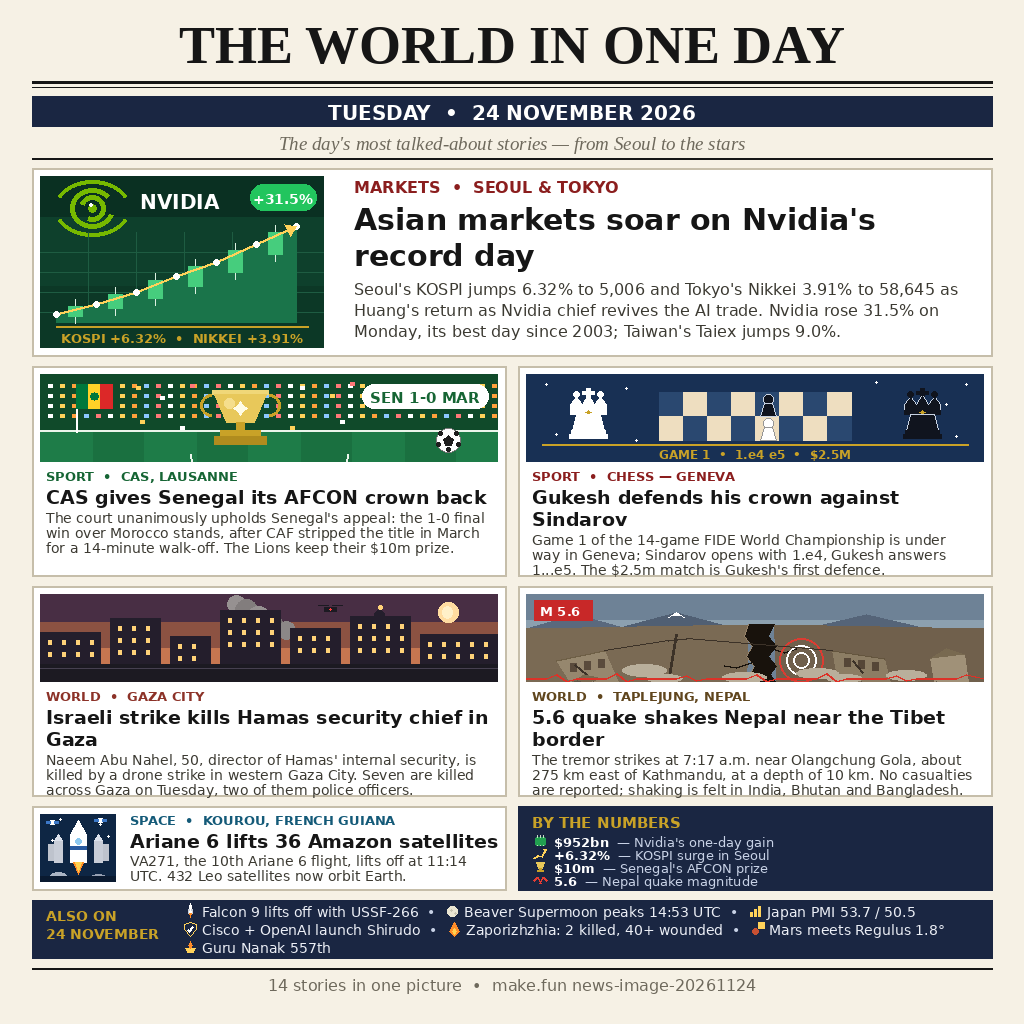
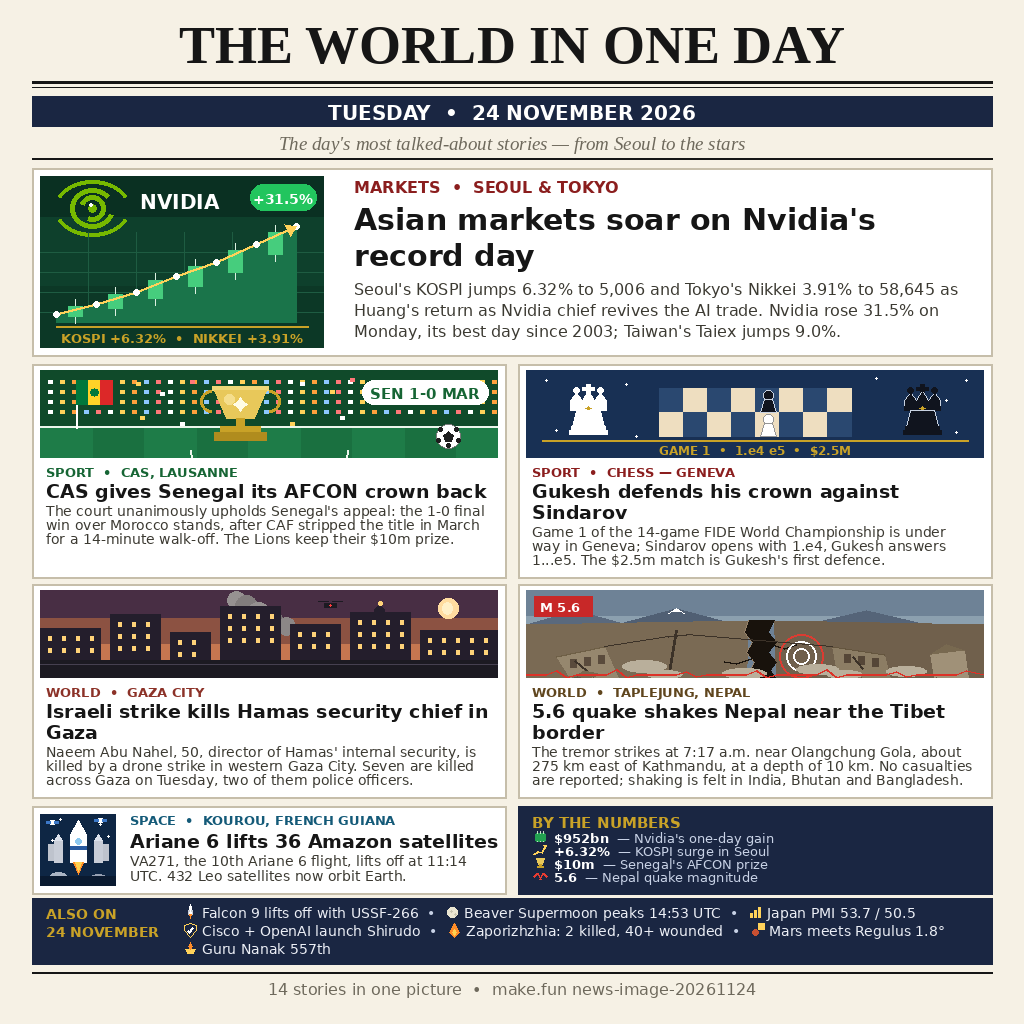
Add news-image-24nov-makefun

Changed region(s): [[0.0312, 0.3438, 0.9688, 0.7812], [0.0312, 0.8125, 0.9688, 0.9688]]

diff --git a/README.md b/README.md
@@ -9,13 +9,15 @@ Referral code: v8vnayfm — https://make.fun?ref=v8vnayfm
 One newspaper front page that sums up **Tuesday 24 November 2026** in
 fourteen stories, drawn entirely in code as a single 1024×1024 PNG. Entry
 for make.fun's "Sum up 24 November's world news in one image" bounty
-($100 in USDC, 50 paid places). This is the fifth revision (v5): an
-illustration redraw of v4 — same fourteen stories and verified facts,
-every illustration redrawn to match its story: the real NVIDIA logo and
-a polished rising chart lead the page, Nepal shows the earthquake
-itself (cracked ground, leaning buildings, dust, seismic rings), Geneva
-shows the real opening board (1.e4 e5), and every ticker item gets its
-own small illustration.
+($100 in USDC, 50 paid places). This is the sixth revision (v6): a
+text-layout fix of v5 — same fourteen stories, same verified facts, same
+illustrations; only the text layout changed. In v5 the deck's third line
+of the chess, Gaza and Nepal cards ended exactly on the card's bottom
+border, and the By the Numbers box and the ticker's third line sat 3px
+from their edges. v6 gives every text block a clean margin: grid cards
+grow 210 to 214px tall, the deck leading tightens 15 to 14, the ticker
+strip grows 58 to 66px tall, and the script now refuses to draw any
+glyph within 8px of a card's bottom edge (2px border + 6px padding).
 
 ## The seven core stories
 
@@ -55,7 +57,7 @@ of them appears in the 23 November entry.
 `main.ts` (Node 22, standard library only) validates `entry.png` — PNG
 signature, at most 1024×1024 pixels, at most 1 MiB — and copies it byte
 for byte to the output directory. The image itself was drawn by the
-accompanying Python script (`draw_news24_v5.py`) with PIL; running it
+accompanying Python script (`draw_news24_v6.py`) with PIL; running it
 twice produces identical bytes.
 
 ```sh
